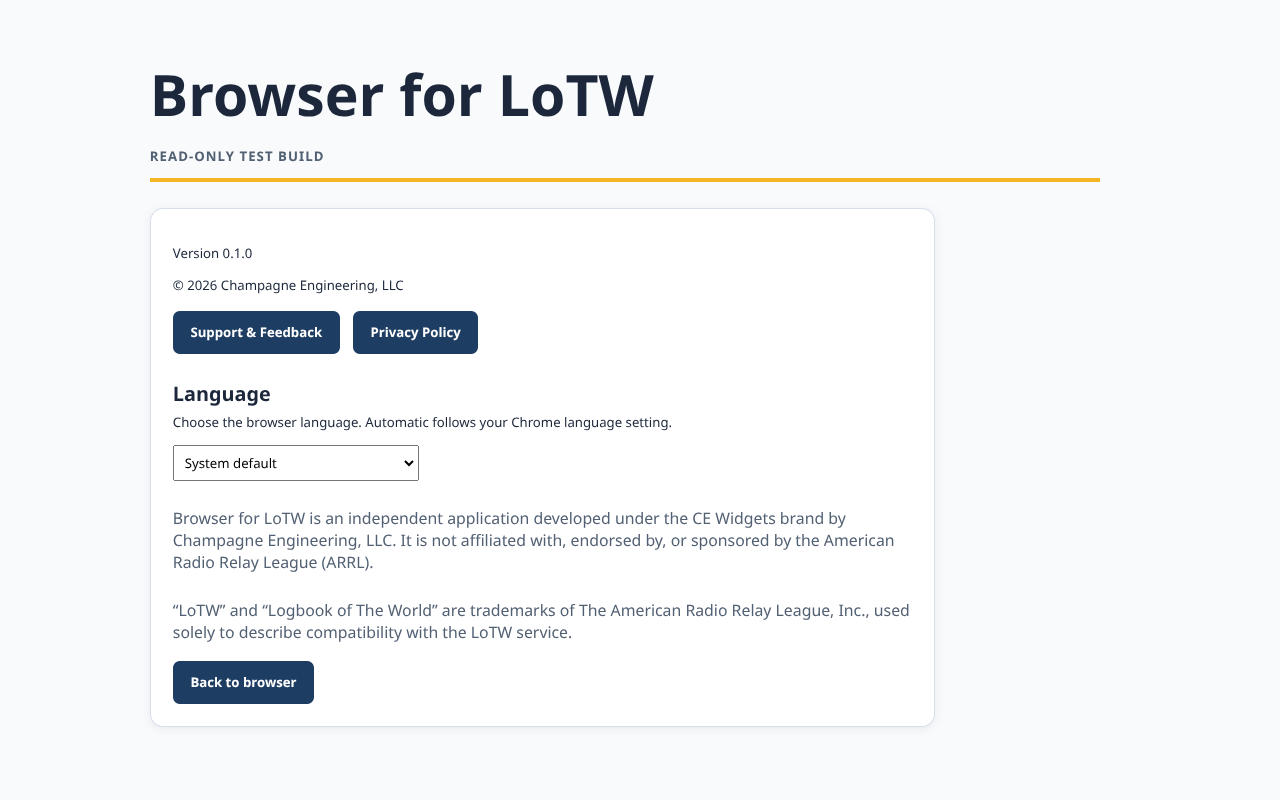
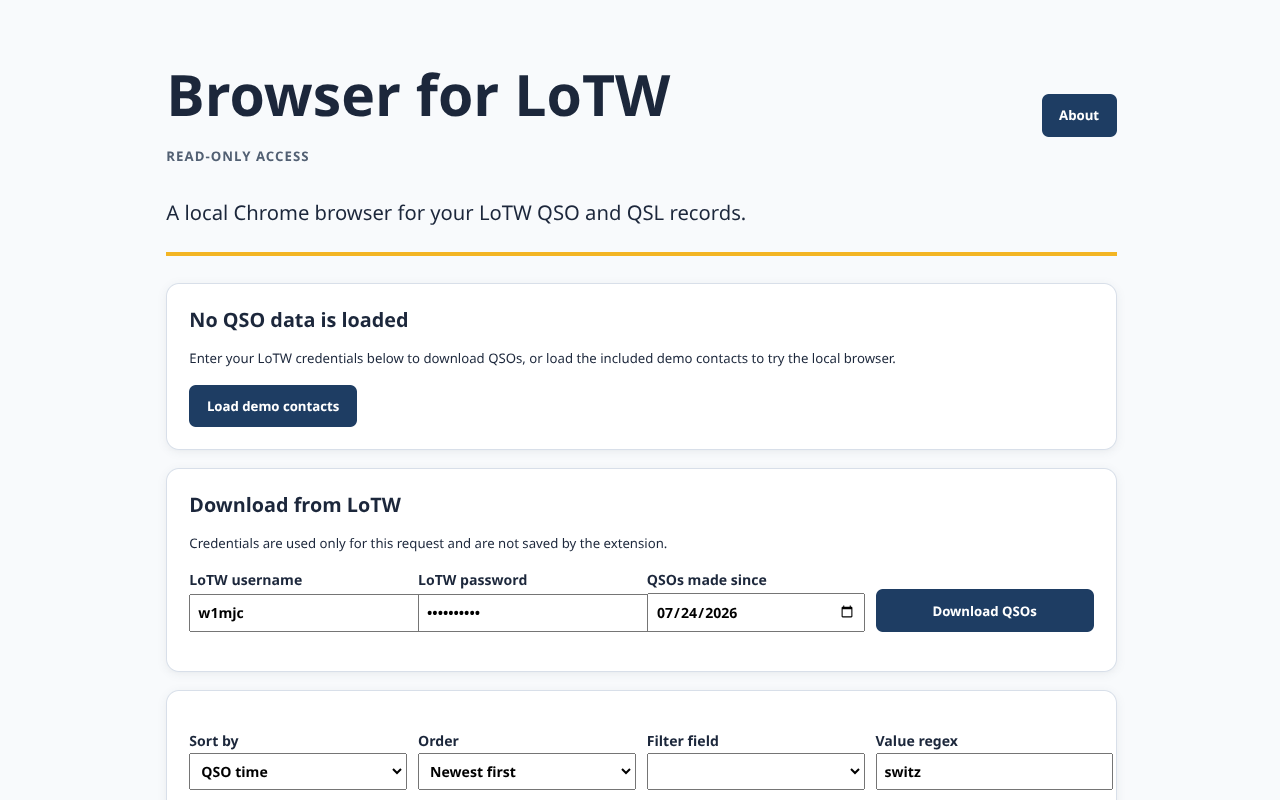
New version with minor text differences

diff --git a/README.md b/README.md
@@ -1,6 +1,6 @@
 # Browser for LoTW
 
-**Status:** 🟢 Production — version `0.1.0`
+**Status:** 🟢 Production — version `2026.08.03-1`
 
 ![Browser for LoTW Chrome extension showing Browse, Search, Sort, and Filter features](docs/feature-graphic.png)
 

diff --git a/docs/release-notes.md b/docs/release-notes.md
@@ -1,6 +1,6 @@
 # Release Notes
 
-## Version 0.1.0 — Production release
+## Version 2026.08.03-1 — Production release
 
 First production release of Browser for LoTW for Chrome on the Chrome Web Store.
 
